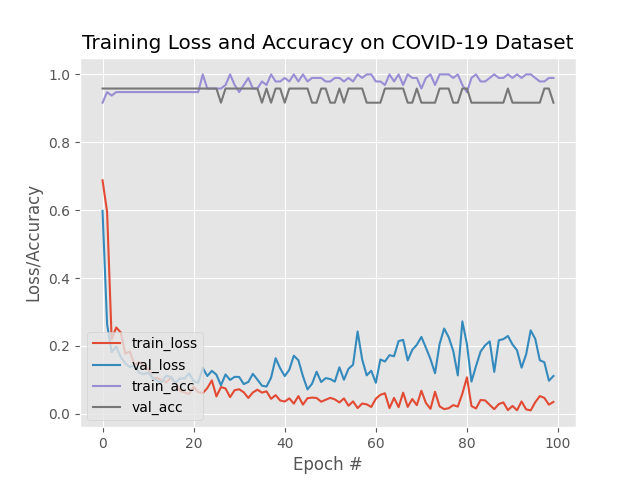
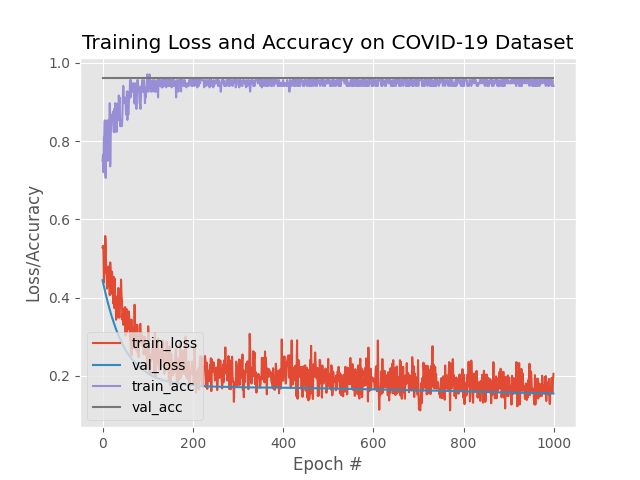
Add images to dataset & cleaning

diff --git a/train_covid19.py b/train_covid19.py
@@ -35,9 +35,9 @@ args = vars(ap.parse_args())
 
 # initialize the initial learning rate, number of epochs to train for,
 # and batch size
-INIT_LR = 1e-2
-EPOCHS = 100
-BS = 8
+INIT_LR = 1e-3
+EPOCHS = 1000
+BS = 24
 
 # grab the list of images in our dataset directory, then initialize
 # the list of data (i.e., images) and class images
